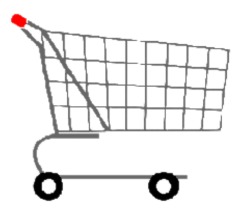
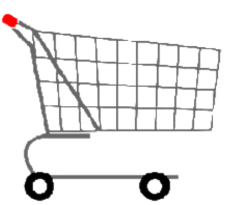
Small Update
Fixed animations pictures, Added Level and Score fonts texts to the game, fixed minor bugs and unnecessary code lines.

diff --git a/main_game.py b/main_game.py
@@ -1,12 +1,15 @@
-import pygame
+import pygame, random
 
 #Missions:
 
 #TODO --> Set up the pygame. Start to set up classes for each object and study this library's basics and advanced attributes and subjects.
 
-#Initialize the PyGame library 
-
+#Initialize the PyGame library and text
 pygame.init()
+
+pygame.font.init()
+leveltext = pygame.font.SysFont("bahnschrift", 60)
+scoretext = pygame.font.SysFont('bahnschrift', 40)
 
 WINDOW_HEIGHT = 750
 WINDOW_WIDTH = 630
@@ -15,11 +18,14 @@ WINDOW_WIDTH = 630
 screen = pygame.display.set_mode((WINDOW_HEIGHT, WINDOW_WIDTH))
 pygame.display.set_caption('Supermarket Game')
 
-walkright_pic = pygame.image.load('ShoppingCartRight.png')
-walkleft_pic = pygame.image.load('ShoppingCartLeft.png') #D:\Ido.Files\Documents\GitHub\PyGame-Project\Shopping Cart Animations
- 
-# Characteristics
+score = 0
+level = 1
 
+#Animations pictures for the main-cart object
+walkright_pic = pygame.image.load('ShoppingCartRight.png')
+walkleft_pic = pygame.image.load('ShoppingCartLeft.png')
+
+# Classes and Attributes of all the objects
 class cart(object):
     def __init__(self, x, y, width, height):
         self.x = x
@@ -33,15 +39,16 @@ class cart(object):
 background = pygame.image.load('Game_SuperMarket_Banner.png')
 
 #Function which is Displaying the background
-
 def redrawGameWindow():
-    global walkCount
-
+    global walkCount, level, score
+    
     screen.blit(background, (0, 0)) #Draws the background
-    pygame.display.update() #Updates background and displays the background I downloaded.
+    leveltextTBD = leveltext.render(f'Level: {level}', 1, (0, 0, 0))
+    scoretextTBD = scoretext.render(f'Score: {score}', 1, (0, 0, 0))
 
-    if walkCount + 1 >= 27:
-        walkCount = 0
+    screen.blit(leveltextTBD, (2, 0))
+    screen.blit(scoretextTBD, (2, 68))
+    pygame.display.update() #Updates background and displays the background I downloaded.
 
     if left:
         screen.blit(walkleft_pic, (maincart.x, maincart.y))
@@ -56,14 +63,14 @@ def redrawGameWindow():
 
 run_program = True
 clock = pygame.time.Clock()
-maincart = cart(50, WINDOW_HEIGHT - walkleft_pic.get_height() -130, 50, 50)
+maincart = cart(50, WINDOW_HEIGHT - walkleft_pic.get_height() - 130, 50, 50)
 
 walkCount = 0 
 left, right = False, False
 
 #Main prorgam loop
 while run_program:
-    clock.tick(40)
+    clock.tick(40) #40 Frames Per Second (FPS)
     pygame.time.delay(100)
 
     for event in pygame.event.get():
@@ -73,23 +80,16 @@ while run_program:
 
     KEYS = pygame.key.get_pressed()
 
-    if KEYS[pygame.K_LEFT] and maincart.x > maincart.vel:
+    if KEYS[pygame.K_LEFT] and maincart.x > maincart.vel -  maincart.width + 39: #Left Movement
         maincart.x -= maincart.vel
         left = True
         right = False
 
-    elif KEYS[pygame.K_RIGHT] and maincart.x < 570 - maincart.width - maincart.vel:
+    elif KEYS[pygame.K_RIGHT] and maincart.x < 600 - maincart.width - maincart.vel: #Right Movement
         maincart.x += maincart.vel
         left = False
         right = True
-
-    # else:
-    #     right = False
-    #     left = False
-    #     walkCount = 0
-        
-    redrawGameWindow()  
+   
+    redrawGameWindow()
 
     pygame.display.update()
-    
-pygame.quit()
